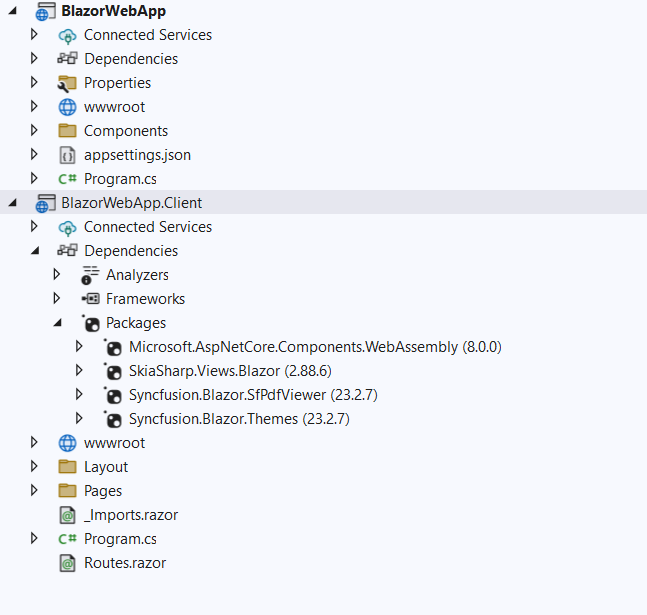
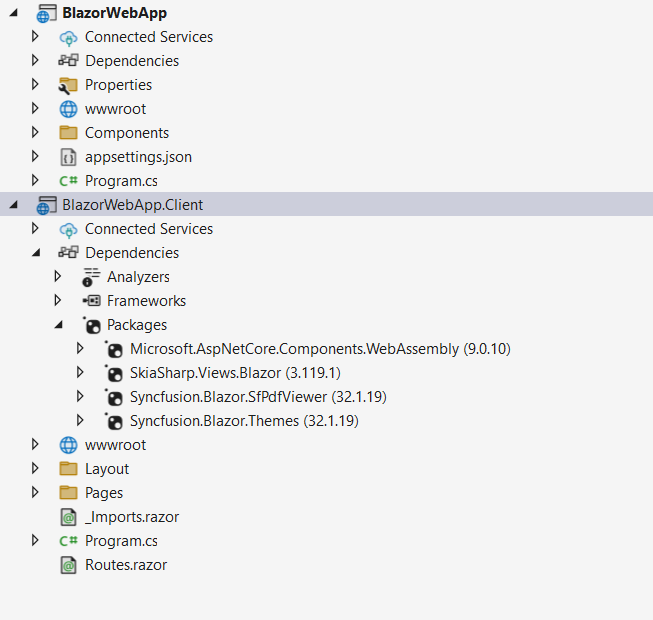
998997: Resolve skia sharp version

diff --git a/Document-Processing/PDF/PDF-Viewer/blazor/getting-started/web-assembly-application.md b/Document-Processing/PDF/PDF-Viewer/blazor/getting-started/web-assembly-application.md
@@ -37,7 +37,7 @@ To add the Blazor PDF Viewer component to the app, open the NuGet Package Manage
 * [Syncfusion.Blazor.Themes](https://www.nuget.org/packages/Syncfusion.Blazor.Themes)
 * [SkiaSharp.Views.Blazor](https://www.nuget.org/packages/SkiaSharp.Views.Blazor)
 
-N> Syncfusion&reg; uses SkiaSharp.Views.Blazor version 3.116.1. Ensure this version is referenced.
+N> Syncfusion&reg; uses SkiaSharp.Views.Blazor version 3.119.1. Ensure this version is referenced.
 
 {% endtabcontent %}
 
@@ -82,14 +82,14 @@ N> The PDF Viewer component is supported on .NET 8.0 and later.
 
 dotnet add package Syncfusion.Blazor.SfPdfViewer -v {{ site.releaseversion }}
 dotnet add package Syncfusion.Blazor.Themes -v {{ site.releaseversion }}
-dotnet add package SkiaSharp.Views.Blazor -v 3.116.1
+dotnet add package SkiaSharp.Views.Blazor -v 3.119.1
 dotnet restore
 
 {% endhighlight %}
 
 {% endtabs %}
 
-N> Syncfusion&reg; uses SkiaSharp.Views.Blazor version 3.116.1. Ensure this version is referenced.
+N> Syncfusion&reg; uses SkiaSharp.Views.Blazor version 3.119.1. Ensure this version is referenced.
 
 N> Syncfusion&reg; Blazor components are available on [nuget.org](https://www.nuget.org/packages?q=syncfusion.blazor). See [NuGet packages](https://blazor.syncfusion.com/documentation/nuget-packages) for the list of available packages and component details.
 

diff --git a/Document-Processing/PDF/PDF-Viewer/blazor/getting-started/web-app.md b/Document-Processing/PDF/PDF-Viewer/blazor/getting-started/web-app.md
@@ -37,7 +37,7 @@ To add **Blazor PDF Viewer** component in the app, open the NuGet package manage
 
 If using the WebAssembly or Auto interactive render mode, install the NuGet packages in the client project to add the component to the Web App.
 
-N> Syncfusion&reg; uses SkiaSharp.Views.Blazor version 3.116.1. Ensure this version is referenced.
+N> Syncfusion&reg; uses SkiaSharp.Views.Blazor version 3.119.1. Ensure this version is referenced.
 * [SkiaSharp.Views.Blazor](https://www.nuget.org/packages/SkiaSharp.Views.Blazor)
 
 ![SkiaSharp Views Blazor](gettingstarted-images/skia-sharp-image.png)
